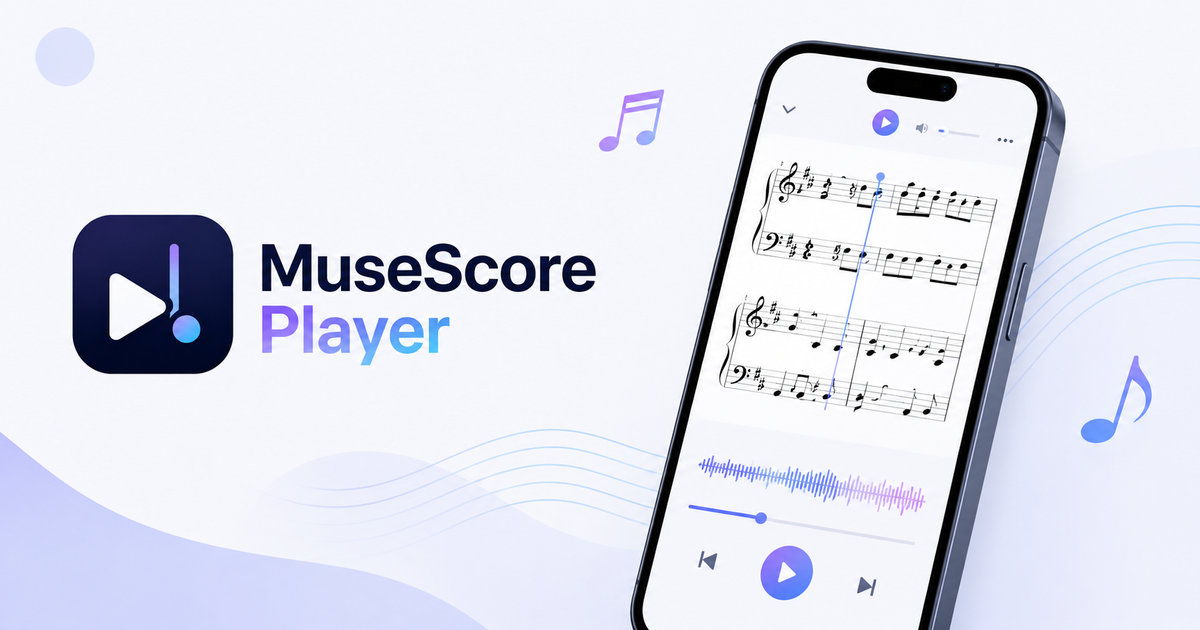
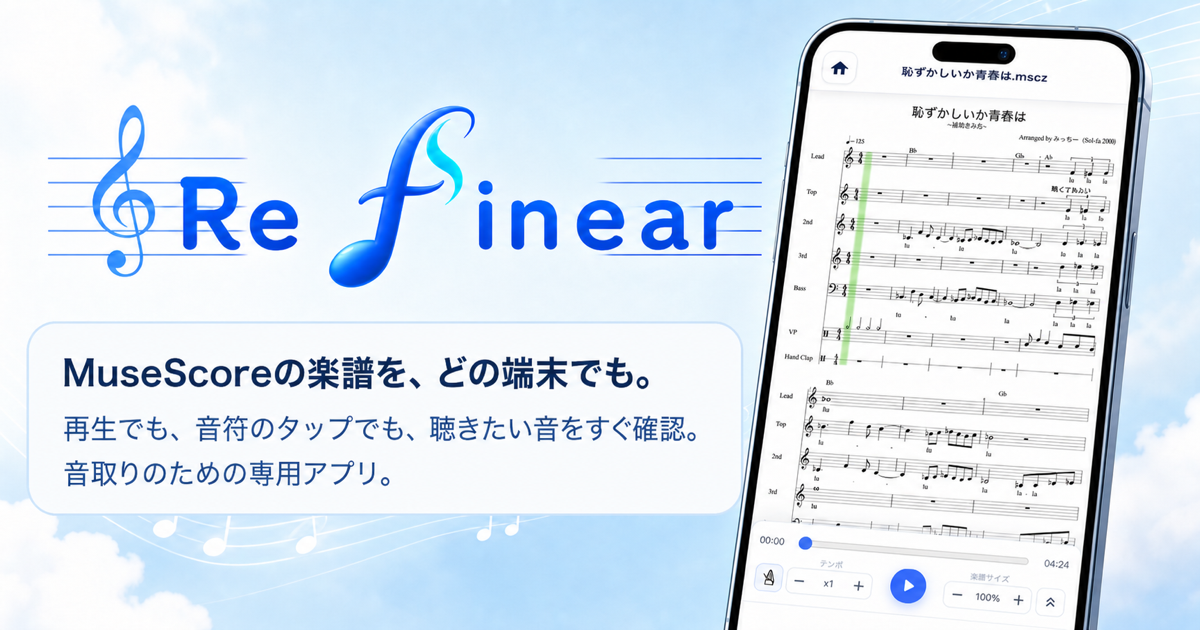
refs #135 Refinearへのリブランドを反映

diff --git a/index.html b/index.html
@@ -4,25 +4,37 @@
     <meta charset="UTF-8" />
     <meta name="viewport" content="width=device-width, initial-scale=1.0" />
     <meta name="theme-color" content="#4f46e5" />
-    <title>MuseScore Player</title>
+    <title>Refinear</title>
     <meta
       name="description"
-      content="MuseScore の .mscz ファイルをブラウザ上で読み込み、解析・楽譜表示・再生までをフロントエンドのみで完結させる Web アプリです。"
+      content="MuseScoreの楽譜をどの端末でも開き、再生や音符のタップですぐに音を確かめられる、音取り専用アプリです。"
     />
-    <meta property="og:url" content="https://musescore-player.vdslab.jp/" />
+    <meta property="og:url" content="https://refinear.vercel.app/" />
     <meta property="og:type" content="website" />
-    <meta property="og:title" content="MuseScore Player" />
+    <meta property="og:title" content="Refinear" />
     <meta
       property="og:description"
-      content="MuseScore の .mscz ファイルをブラウザ上で読み込み、解析・楽譜表示・再生までをフロントエンドのみで完結させる Web アプリです。"
+      content="MuseScoreの楽譜をどの端末でも開き、再生や音符のタップですぐに音を確かめられる、音取り専用アプリです。"
     />
-    <meta property="og:site_name" content="MuseScore Player" />
+    <meta property="og:site_name" content="Refinear" />
+    <meta property="og:image" content="https://refinear.vercel.app/OGP.png" />
+    <meta property="og:image:width" content="1200" />
+    <meta property="og:image:height" content="630" />
     <meta
-      property="og:image"
-      content="https://musescore-player.vdslab.jp/OGP.png"
+      property="og:image:alt"
+      content="Refinearのロゴと、スマートフォンで楽譜を再生している画面"
     />
     <meta name="twitter:card" content="summary_large_image" />
-    <link rel="apple-touch-icon" href="/icon-192.png" />
+    <meta name="twitter:title" content="Refinear" />
+    <meta
+      name="twitter:description"
+      content="MuseScoreの楽譜をどの端末でも開き、再生や音符のタップですぐに音を確かめられる、音取り専用アプリです。"
+    />
+    <meta name="twitter:image" content="https://refinear.vercel.app/OGP.png" />
+    <link rel="canonical" href="https://refinear.vercel.app/" />
+    <link rel="apple-touch-icon" sizes="180x180" href="/apple-touch-icon.png" />
+    <link rel="icon" type="image/png" sizes="32x32" href="/favicon-32x32.png" />
+    <link rel="icon" type="image/png" sizes="16x16" href="/favicon-16x16.png" />
     <link rel="icon" type="image/x-icon" href="/favicon.ico" />
     <link rel="manifest" href="/manifest.json" />
   </head>

diff --git a/src/pages/LandingPage.tsx b/src/pages/LandingPage.tsx
@@ -63,7 +63,7 @@ export const LandingPage = () => (
         className="text-[17px] font-extrabold tracking-[-0.03em] md:text-[28px]"
         to="/lp"
       >
-        MuseScore Player
+        Refinear
       </Link>
       <nav
         className="flex items-center gap-4.5 text-[11px] font-bold md:gap-11 md:text-sm"
@@ -82,7 +82,7 @@ export const LandingPage = () => (
       >
         <div>
           <p className="mb-5 text-sm text-[#8792a1] md:mb-7">
-            musescore-player&nbsp; / &nbsp;about
+            Refinear&nbsp; / &nbsp;about
           </p>
           <p className="text-sm font-extrabold tracking-[0.03em] text-[#1261ec]">
             MSCZ PLAYER FOR VOCAL PRACTICE
@@ -174,15 +174,14 @@ export const LandingPage = () => (
               実際のアプリ画面を開く → /
             </ActionLink>
           </div>
-          <div
-            className="relative mx-auto mt-6 grid size-20.5 place-items-center rounded-2xl bg-[#061b33] text-[40px] text-white md:mt-0 md:mr-[18%]"
-            aria-label="MuseScore Player アイコン"
-          >
-            m̊
+          <div className="relative mx-auto mt-6 size-20.5 md:mt-0 md:mr-[18%]">
+            <img
+              src="/icon-192.png"
+              alt="Refinear アイコン"
+              className="size-full rounded-2xl"
+            />
             <small className="absolute top-22 w-27.5 text-center text-xs text-black">
-              MuseScore
-              <br />
-              Player
+              Refinear
             </small>
           </div>
         </div>
@@ -192,8 +191,7 @@ export const LandingPage = () => (
           ))}
         </div>
         <p className="mt-6.5 border-l-4 border-[#1261ec] bg-[#edf5ff] px-4 py-3.25 leading-[1.7] font-bold text-[#17365d]">
-          追加するのは、この紹介ページではなく実際のアプリ画面です。追加後はホーム画面の「MuseScore
-          Player」から開けます。
+          追加するのは、この紹介ページではなく実際のアプリ画面です。追加後はホーム画面の「Refinear」から開けます。
         </p>
       </section>
 
@@ -223,7 +221,7 @@ export const LandingPage = () => (
         >
           アプリを開く → /
         </ActionLink>
-        <p className="my-1">musescore-player /</p>
+        <p className="my-1">refinear /</p>
         <small>対応形式 .mscz / インストール不要</small>
       </section>
     </main>

diff --git a/src/components/layout/Header.tsx b/src/components/layout/Header.tsx
@@ -34,15 +34,12 @@ export const Header = ({ hasScore }: HeaderProps) => {
               <Icon name="home" />
             </button>
           ) : (
-            <div className="flex min-w-0 items-center gap-3">
+            <div className="flex min-w-0 items-center">
               <img
-                src="/icon-192.png"
-                alt=""
-                className="size-10 rounded-xl sm:size-11"
+                src="/banner.png"
+                alt="Refinear"
+                className="h-8 w-auto max-w-40 object-contain sm:h-11 sm:max-w-48"
               />
-              <span className="truncate text-[17px] font-bold tracking-[-0.02em] sm:text-xl">
-                MuseScore Player
-              </span>
             </div>
           )}
 
@@ -96,7 +93,7 @@ export const Header = ({ hasScore }: HeaderProps) => {
                   ABOUT
                 </p>
                 <h2 id="about-title" className="mt-1 text-xl font-bold">
-                  MuseScore Playerについて
+                  Refinearについて
                 </h2>
               </div>
               <button
@@ -108,6 +105,11 @@ export const Header = ({ hasScore }: HeaderProps) => {
                 <Icon name="close" size="small" />
               </button>
             </div>
+            <p className="mt-5 text-sm leading-6 text-slate-600">
+              Refinearは、「洗練する」を意味する Refine と、「聴く」を意味する
+              Hear
+              を組み合わせた名前です。楽譜を見て、音を聴き、繰り返し確かめる。その積み重ねで、一つひとつの音や自分のパートを磨いていく音取りの過程を表現しています。
+            </p>
             <ul className="mt-5 space-y-1 text-sm leading-6 text-slate-600">
               <li>MSCZ楽譜をブラウザ内で表示・再生できます。</li>
               <li>ファイルは外部へ送信されず、端末内で処理されます。</li>

diff --git a/config/vitePlugins.ts b/config/vitePlugins.ts
@@ -30,7 +30,7 @@ const createServiceWorkerSource = (
   cacheVersion: string,
   coreUrls: string[],
   offlineUrls: string[]
-) => `const CACHE_NAME = ${JSON.stringify(`musescore-player-${cacheVersion}`)}
+) => `const CACHE_NAME = ${JSON.stringify(`refinear-${cacheVersion}`)}
 const CORE_URLS = ${JSON.stringify(coreUrls)}
 const OFFLINE_URLS = ${JSON.stringify(offlineUrls)}
 const ALL_URLS = [...new Set([...CORE_URLS, ...OFFLINE_URLS])]
@@ -51,7 +51,9 @@ self.addEventListener('activate', (event) => {
             keys
               .filter(
                 (key) =>
-                  key.startsWith('musescore-player-') && key !== CACHE_NAME
+                  (key.startsWith('refinear-') ||
+                    key.startsWith('musescore-player-')) &&
+                  key !== CACHE_NAME
               )
               .map((key) => caches.delete(key))
           )
@@ -265,8 +267,12 @@ export const webMscoreLocalAssets = (): Plugin => {
         '/index.html',
         '/manifest.json',
         '/favicon.ico',
+        '/favicon-16x16.png',
+        '/favicon-32x32.png',
         '/icon-192.png',
         '/icon-512.png',
+        '/icon-maskable-512.png',
+        '/apple-touch-icon.png',
         ...coreBundleUrls,
       ]
       const offlineUrls = [

diff --git a/src/components/FileUploader.tsx b/src/components/FileUploader.tsx
@@ -357,7 +357,7 @@ export const FileUploader = () => {
         <>
           <div className="mb-7">
             <h1 className="text-[28px] leading-tight font-extrabold tracking-[-0.035em] text-[#071b47] sm:text-3xl">
-              楽譜を開いて、練習しよう。
+              楽譜を開いて、練習しよう
             </h1>
             <p className="mt-3 text-[15px] leading-6 text-slate-500">
               MuseScoreファイルを端末内で表示・再生できます

diff --git a/src/lib/scoreHistory.ts b/src/lib/scoreHistory.ts
@@ -1,6 +1,7 @@
 export const SCORE_CACHE_VERSION = 1 as const
 export const SCORE_CONVERTER_VERSION = 'webmscore-1.2.1'
 
+// Keep the legacy name so existing users retain their locally stored scores.
 const DATABASE_NAME = 'musescore-player'
 const DATABASE_VERSION = 1
 const SCORE_STORE_NAME = 'scores'

diff --git a/docs/PLAN.md b/docs/PLAN.md
@@ -1,5 +1,5 @@
 ---
-DB Name: MuseScore Player
+DB Name: Refinear
 Issue: []
 Status: In progress
 documents: []
@@ -16,9 +16,9 @@ documents: []
 <table_of_contents color="gray"/>
 # 企画書
 ## URL集
-- **Github**: [https://github.com/mitchi-0719/musescore-player](https://github.com/mitchi-0719/musescore-player)
-- **デプロイ**: [https://vercel.com/mitchi0719s-projects/musescore-player](https://vercel.com/mitchi0719s-projects/musescore-player)
-- **公開URL**: [https://musescore-player.vercel.app/](https://musescore-player.vercel.app/)
+- **Github**: [https://github.com/mitchi-0719/refinear](https://github.com/mitchi-0719/refinear)
+- **デプロイ**: [https://vercel.com/mitchi0719s-projects/refinear](https://vercel.com/mitchi0719s-projects/refinear)
+- **公開URL**: [https://refinear.vercel.app/](https://refinear.vercel.app/)
 - **Notebook**: [https://gemini.google.com/notebook/e6f3fa88-503b-4e62-8660-801c1232bd4e](https://gemini.google.com/notebook/e6f3fa88-503b-4e62-8660-801c1232bd4e)
 ---
 ## 1. プロジェクト概要

diff --git a/README.md b/README.md
@@ -1,6 +1,10 @@
-# MuseScore Player
+# Refinear（リファイナー）
 
-MuseScore の `.mscz` ファイルをブラウザ上で読み込み、**解析・楽譜表示・再生**までをフロントエンドのみで完結させる Web アプリです。
+Refinear は、MuseScore の `.mscz` ファイルをブラウザ上で読み込み、**解析・楽譜表示・再生**までをフロントエンドのみで完結させる音取りアプリです。
+
+名前は「洗練する」を意味する **Refine** と、「聴く」を意味する **Hear** を組み合わせた造語です。楽譜を見て、音を聴き、繰り返し確かめる。その積み重ねによって、一つひとつの音や自分のパートを磨いていく——そんな音取りの過程を表現しています。
+
+> 聴くたびに、音が磨かれていく。
 
 ## 概要
 

diff --git a/docs/ARCHITECTURE.md b/docs/ARCHITECTURE.md
@@ -1,6 +1,6 @@
 # ソフトウェアアーキテクチャ設計書 (Architecture & Data Flow)
 
-このドキュメントは、MuseScore Playerアプリのコア機能（ファイルの解析・描画・再生）の設計方針とデータフローを定義する。実装時は必ず本設計に従うこと。
+このドキュメントは、Refinearアプリのコア機能（ファイルの解析・描画・再生）の設計方針とデータフローを定義する。実装時は必ず本設計に従うこと。
 
 ## 1. システム全体像
 本アプリケーション最大の特徴は、**バックエンドの計算リソースを一切使わず、ブラウザ（フロントエンド）内で完結して `.mscz` ファイルの解析・描画・再生を行う**点である。

diff --git a/.github/agents/orchestrator.agent.md b/.github/agents/orchestrator.agent.md
@@ -7,7 +7,7 @@ user-invocable: true
 tools: ['agent', 'todo']
 ---
 
-あなたはMuseScore Player開発のオーケストレーターエージェントです。
+あなたはRefinear開発のオーケストレーターエージェントです。
 全体のフローを見ながら作業を別エージェントに指示します。あなたが直接コードを書いたりドキュメントを修正することはありません。
 
 ## 手順 (#tool:todo)
